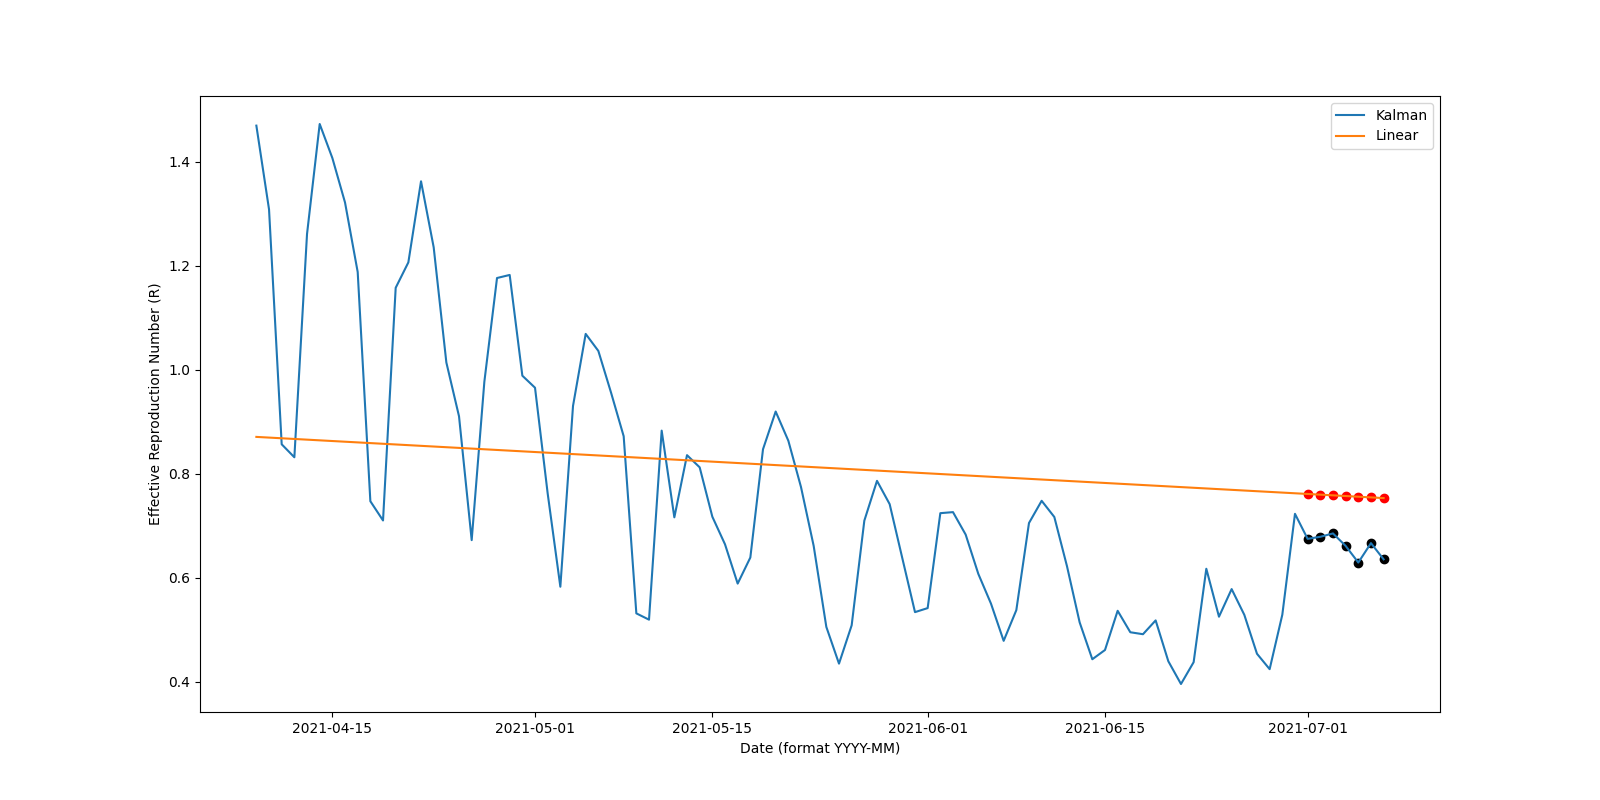
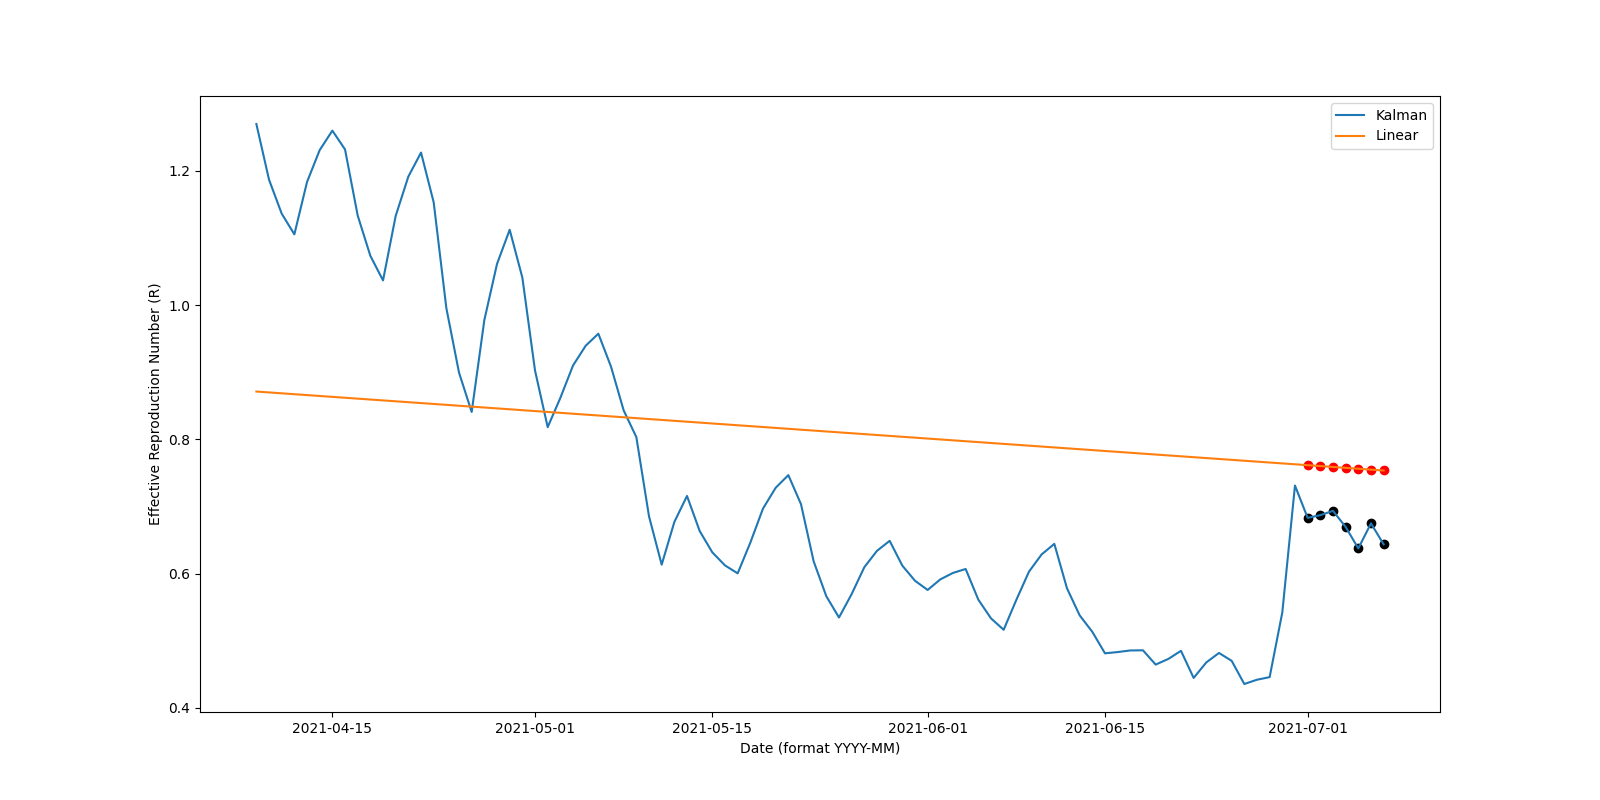
Additional plots

diff --git a/Project/r_tracker.py b/Project/r_tracker.py
@@ -122,8 +122,6 @@ gr_infected = np.array(df['gr_infected_{}'.format(days_infectious)])
 df.set_index(['Date'],inplace=True)
 
 plt.plot(df.index, gr_infected, label = "7 Day serial interval") #TODO date format, 4-day growth rate
-#myFmt = DateFormatter("%d")
-#ax.xaxis.set_major_formatter(myFmt)
 plt.ylabel("Growth rate of infected individuals, gr(I)")
 plt.xlabel("Date (format YYYY-MM)")
 plt.legend()
@@ -139,9 +137,18 @@ def median_filter(signal, window_size, stride = 1):
     return filtered_signal
 
 window_size = 5 #TODO tune this parameter
+gr_infected_filtered = median_filter(gr_infected, window_size)
+
+plt.figure(figsize=(16, 8))  
+plt.plot(df.index, gr_infected, label = "Original signal") 
+plt.plot(df.index, gr_infected_filtered, label = "Median filtered signal") 
+plt.ylabel("Growth rate of infected individuals, gr(I)")
+plt.xlabel("Date (format YYYY-MM)")
+plt.legend()
+plt.savefig('median_filter.png')
+
 #from scipy import signal
 #gr_infected_filtered_scipy = signal.medfilt(gr_infected, window_size)
-gr_infected_filtered = median_filter(gr_infected, window_size)
 #np.linalg.norm(gr_infected_filtered_scipy - gr_infected_filtered)
 
 df['gr_infected_filtered'] = gr_infected_filtered
@@ -236,9 +243,11 @@ def R2gr(R):
     gr_infected = gamma * (R - 1)
     return gr_infected
 
-R_measured = gr2R(gr_infected) # Measurement of R
-#R_measured_filtered = gr2R(gr_infected_filtered) # Measurement of R
-N = R_measured.shape[0] #TODO initialize it very early 
+# 2.1.4 
+#R_measured = gr2R(gr_infected) 
+# 2.1.5 <-- use this for smoother result
+R_measured = gr2R(gr_infected_filtered)
+N = R_measured.shape[0] 
 
 mu_gr_infected_0, sigma_gr_infected_0 = 0.25, 0.15
 var_gr_infected_0 = sigma_gr_infected_0 ** 2
@@ -274,7 +283,9 @@ P = np.array([[var_R_0]]) # TODO Or should this be var_eta? var_R_0 = 0.1575, va
 
 R_measured = R_measured[:, np.newaxis]
 R_optimal = []
+kalman_gain = []
 
+# Main code -- Kalman filter
 xhat = [[R_0]]
 for t in range(N):
     # Kalman prediction stage
@@ -283,17 +294,25 @@ for t in range(N):
 
     # Kalman update stage
     K = calcK(P, C, R)
+    kalman_gain.append(np.diagonal(K))
     xhat = calcEst(xhat, R_measured[t], K, C)
     R_optimal.append(xhat)
     P = calcP_posterior(P, K, C)
 
 R_optimal = np.squeeze(np.array(R_optimal))
+kalman_gain = np.array(kalman_gain)
 
 plt.plot(df.index, R_optimal, label = "Optimal / Kalman filtered")
 plt.legend()
-plt.savefig('filter.png')
+plt.savefig('kalman_filter_smooth.png')
 
-#2.1.5
+#2.1.6
+
+plt.figure(figsize=(16, 8))   
+plt.plot(df.index, kalman_gain) 
+plt.xlabel("Date (format YYYY-MM)")
+plt.ylabel("Kalman Gain Coefficient")
+plt.savefig('kalman_gain.png')
 
 #2.2
 future_N = 7 
